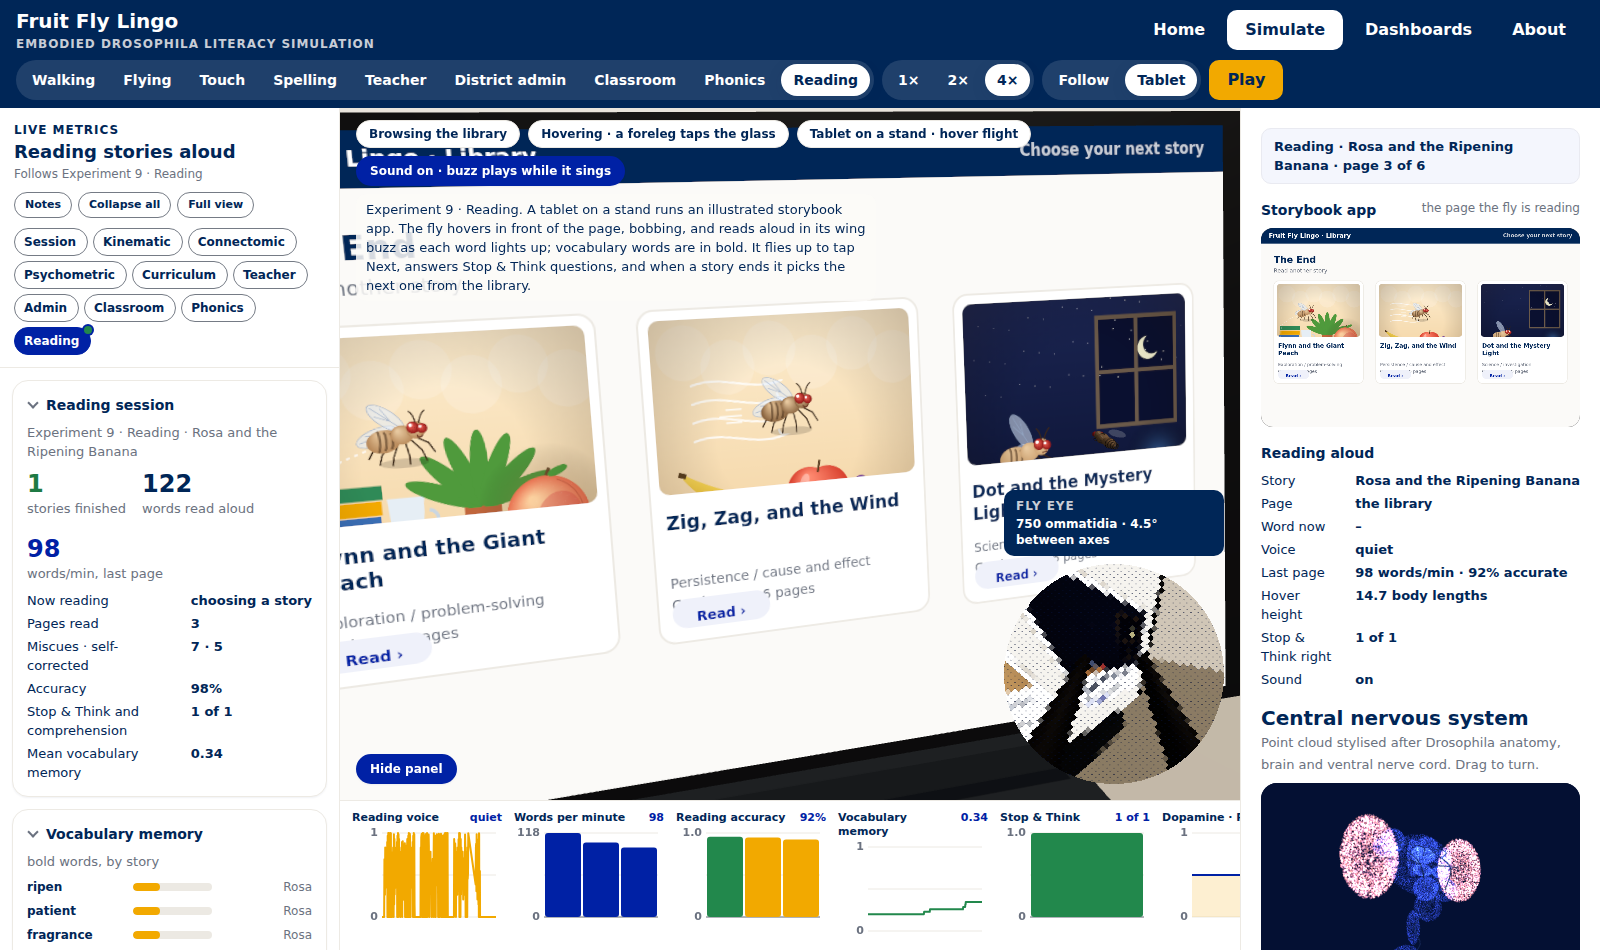
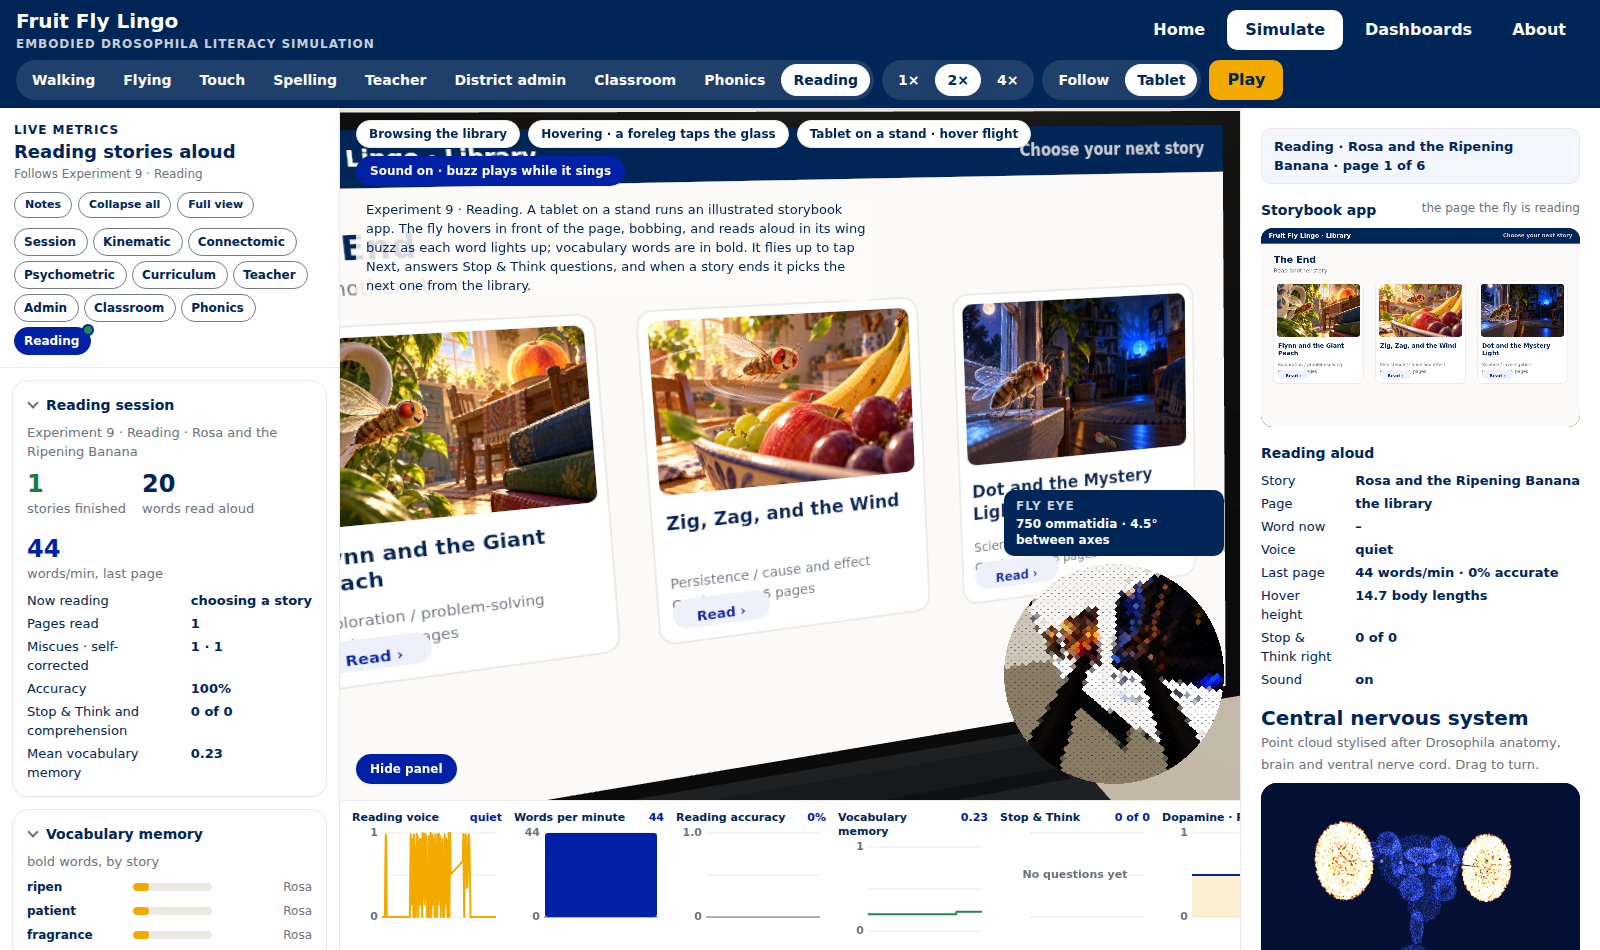
Reading: use the generated story illustrations
Maps the 24 uploaded images to their pages by content (several were
numbered out of order), adds web-sized JPEG copies named <story>-p<page>.jpg
(3.3 MB in total instead of about 50 MB) and lists them in the manifest.
The originals stay untouched under each story's title.

Page to uploaded image: Rosa 5,6,3,4,1,2; Flynn 5,6,4,2,3,1;
Zig 5,6,4,2,3,1; Dot 5,2,3,4,1,6.

The picture panel is now 4:3 like the images, so nothing is cropped away,
with the title and page number underneath; library cards use the covers.
The painted scenes remain as a fallback for a missing image.

diff --git a/index.html b/index.html
@@ -537,7 +537,7 @@ pre.mermaid svg{max-width:none;height:auto}
           <p class="sub">A miscue is a word read wrong; most are self-corrected. Unfamiliar vocabulary words are read more slowly and misread more often until their memory grows.</p></article>
         <article class="card span4"><header><h3>Vocabulary memory</h3><span class="sub">bold words, by story</span></header><div id="rdVocab" class="memory"></div><p class="sub">Each time the fly reads a bold word correctly its memory grows by Δw = η(R − V); a misread lowers it.</p></article>
         <article class="card span4"><header><h3>Fluency by page</h3><span class="sub">words per minute, coloured by accuracy</span></header><canvas class="chart tall" id="cRdWpm" aria-label="Words per minute for each page read"></canvas><div class="legend"><span><i style="background:#22884c"></i>95% or better</span><span><i style="background:#f2a900"></i>below 95%</span></div><p class="sub">Timed in simulation seconds, so the rate does not change with the speed buttons.</p></article>
-        <article class="card span6"><header><h3>The library</h3><span class="sub">four stories, six pages each</span></header><div style="overflow-x:auto"><table class="q" id="rdBooks"><thead><tr><th>Story</th><th>Theme</th><th>Grade</th><th>Words to know</th><th>Read</th></tr></thead><tbody></tbody></table></div><p class="sub">Illustrations are painted in the browser from each page's image prompt until generated images are added to docs/stories.</p></article>
+        <article class="card span6"><header><h3>The library</h3><span class="sub">four stories, six pages each</span></header><div style="overflow-x:auto"><table class="q" id="rdBooks"><thead><tr><th>Story</th><th>Theme</th><th>Grade</th><th>Words to know</th><th>Read</th></tr></thead><tbody></tbody></table></div><p class="sub">Illustrations are AI-generated from each page's image prompt; a page without an image is painted in the browser instead.</p></article>
         <article class="card span6"><header><h3>Reading log</h3><span class="sub">miscues, questions, stories</span></header><ul class="events" id="rdLog" style="max-height:260px"></ul></article>
       </section>
     </div>
@@ -866,7 +866,7 @@ pre.mermaid svg{max-width:none;height:auto}
         <figure><img loading="lazy" src="docs/screenshots/exp9-library.png" alt="Experiment 9 library: The End and three story cards to choose the next story"><figcaption><strong>9 · The library.</strong> After the comprehension question, three more stories appear; the fly flies up and taps one to start it.</figcaption></figure>
         <figure><img loading="lazy" src="docs/screenshots/dashboards-9.png" alt="Dashboard 9: reading session counters, vocabulary memory, fluency by page"><figcaption><strong>Dashboard 9 · Reading stories aloud.</strong> Stories finished, words read, words per minute and accuracy per page, miscues and self-corrections, questions answered, and a vocabulary memory per bold word.</figcaption></figure>
       </div>
-      <p>The reading app follows the pattern of illustrated readers such as LitLab: a picture and a short passage on each spread, a strip of words to know, and a comprehension check about every three pages. The four books are written for grades 3 to 5 and set in a fruit fly's world, where a peach is a mountain and a kitchen fan is a storm: <em>Rosa and the Ripening Banana</em> (patience and change over time), <em>Flynn and the Giant Peach</em> (exploration), <em>Zig, Zag, and the Wind</em> (cause and effect) and <em>Dot and the Mystery Light</em> (investigation and evidence). Every page carries an image prompt for a generated illustration. There is no image model in the browser, so until generated images are added, each page is painted from a scene description with one consistent fly character. The prompts, and how to add images, are in <a href="docs/stories/prompts.md" target="_blank" rel="noopener">docs/stories/prompts.md</a>.</p>
+      <p>The reading app follows the pattern of illustrated readers such as LitLab: a picture and a short passage on each spread, a strip of words to know, and a comprehension check about every three pages. The four books are written for grades 3 to 5 and set in a fruit fly's world, where a peach is a mountain and a kitchen fan is a storm: <em>Rosa and the Ripening Banana</em> (patience and change over time), <em>Flynn and the Giant Peach</em> (exploration), <em>Zig, Zag, and the Wind</em> (cause and effect) and <em>Dot and the Mystery Light</em> (investigation and evidence). Every page is illustrated with an AI-generated image made from that page's prompt, with one consistent fly character; the app loads web-sized copies from docs/stories. If an image is missing, the page is painted in the browser from a scene description instead. The prompts, and how to add or replace images, are in <a href="docs/stories/prompts.md" target="_blank" rel="noopener">docs/stories/prompts.md</a>.</p>
       <p>The fly reads word by word at about 110 words a minute, slowing on the bold vocabulary words. Each word is voiced by the same wing buzz as the phonics lesson: a hum shaped by the word's vowels, a pulse at a stop consonant, rising at a question and falling at the end of a sentence. Unfamiliar vocabulary is misread more often, and most misreadings are self-corrected. Stop &amp; Think after page 3 and a comprehension question after page 6 are answered right with a probability that rises with the story's vocabulary memory. These books are structured like decodable readers but are not aligned to a phonics scope and sequence; mapping them to a grade 3 to 5 morphology progression is the next step.</p>
 
       <h3 class="sec">From this app to the full EDLS</h3>
@@ -2953,7 +2953,7 @@ function renderPhonicsTrial() {
 // =====================================================================
 // ---------- Experiment 9 stories: illustrated six-page books with vocabulary and comprehension checks ----------
 // Each page has an image prompt for a generated illustration. Until real images are dropped into docs/stories
-// (listed in docs/stories/manifest.json as <story>-p<page>.png), each page is painted from a scene list below.
+// (listed in docs/stories/manifest.json as <story>-p<page>.jpg or .png), each page is painted from a scene list below.
 const STORY_STYLE = "Consistent character design: scientifically recognizable Drosophila fruit fly, large red compound eyes, tan segmented body, transparent wings, six thin legs, friendly expressive face without human clothing, miniature insect-scale world, colorful polished 3D children's educational illustration, ages 8-11, no text or letters in image.";
 const STORIES = [
   { id: 'rosa', title: 'Rosa and the Ripening Banana', theme: 'Patience / change over time', grade: 'Grades 3–4', vocab: ['ripen', 'patient', 'fragrance', 'notice', 'change'],
@@ -3057,11 +3057,13 @@ const FLY_TINT = { base: '#b8895a', light: '#d2a878', dark: '#8a643f', rosa: '#c
 function artFor(si, pi) {
   const key = `${si}:${pi}`; if (pageArt.has(key)) return pageArt.get(key);
   const cv = document.createElement('canvas'); cv.width = PW; cv.height = PHH; const g = cv.getContext('2d');
-  const img = storyImgs.get(`${STORIES[si].id}-p${pi + 1}.png`);
-  if (img) { const s = Math.max(PW / img.width, PHH / img.height); g.drawImage(img, (PW - img.width * s) / 2, (PHH - img.height * s) / 2, img.width * s, img.height * s); }
+  const img = storyImgs.get(`${STORIES[si].id}-p${pi + 1}.jpg`) || storyImgs.get(`${STORIES[si].id}-p${pi + 1}.png`);
+  if (img) { cv.width = img.width; cv.height = img.height; g.drawImage(img, 0, 0); } // generated images keep their own 4:3 shape
   else paintScene(g, STORIES[si].pages[pi].scene);
   pageArt.set(key, cv); return cv;
 }
+// draw src to fill the rectangle, cropping the overflow evenly
+function drawCover(g, src, x, y, w, h) { const s = Math.max(w / src.width, h / src.height), sw = w / s, sh = h / s; g.drawImage(src, (src.width - sw) / 2, (src.height - sh) / 2, sw, sh, x, y, w, h); }
 function paintScene(g, sc) {
   const bgs = { kitchen: ['#fdeccd', '#f3d3a2', '#c98f5a', '#b27a48'], morning: ['#fff6df', '#fbe3b4', '#d49c66', '#bf8654'], sunset: ['#ffc98a', '#f48d6f', '#b9744a', '#9a5d3a'], night: ['#1b2551', '#0c1333', '#3b3552', '#2b2640'] }[sc.bg];
   let gr = g.createLinearGradient(0, 0, 0, PHH); gr.addColorStop(0, bgs[0]); gr.addColorStop(1, bgs[1]); g.fillStyle = gr; g.fillRect(0, 0, PW, PHH);
@@ -3264,7 +3266,9 @@ function drawBook() {
   g.textAlign = 'right'; g.fillStyle = C.onDarkMuted; g.font = `700 17px ${DISPLAY}`; g.fillText(R.mode === 'library' ? 'Choose your next story' : `${S.title} · page ${R.pi + 1} of 6`, 1000, 26);
   if (R.mode === 'library') return drawLibrary(g), (bookTex.needsUpdate = true);
   // left: the picture
-  g.save(); g.beginPath(); g.roundRect(24, 66, 496, 456, 16); g.clip(); g.drawImage(artFor(R.si, R.pi), 24, 66); g.restore();
+  // left: the picture, 4:3 like the generated illustrations, with the title underneath
+  g.save(); g.beginPath(); g.roundRect(24, 66, 496, 372, 16); g.clip(); drawCover(g, artFor(R.si, R.pi), 24, 66, 496, 372); g.restore();
+  g.textAlign = 'left'; g.textBaseline = 'alphabetic'; g.fillStyle = C.darkBlue; g.font = `700 21px ${DISPLAY}`; g.fillText(S.title, 28, 472); g.fillStyle = C.inkMuted; g.font = `400 16px ${BODY}`; g.fillText(`Page ${R.pi + 1} of 6 · ${S.grade}`, 28, 498);
   if (R.mode === 'check' || R.mode === 'feedback') { drawCheck(g); bookTex.needsUpdate = true; return; }
   // right: the text, with the word being read highlighted and vocabulary in bold blue
   g.textAlign = 'left'; g.textBaseline = 'alphabetic'; g.fillStyle = C.inkMuted; g.font = `700 13px ${DISPLAY}`; g.fillText(S.theme.toUpperCase() + ' · ' + S.grade.toUpperCase(), 548, 88);
@@ -3296,7 +3300,7 @@ function drawLibrary(g) {
   g.textAlign = 'left'; g.fillStyle = C.darkBlue; g.font = `700 30px ${DISPLAY}`; g.fillText('The End', 40, 104); g.fillStyle = C.inkMuted; g.font = `400 18px ${BODY}`; g.fillText('Read another story', 40, 138);
   libraryOrder().forEach((si, i) => { const [x, y, w, h] = cardRect(i), S = STORIES[si], sel = reading.chosenCard === i;
     g.fillStyle = C.card; g.strokeStyle = sel ? C.coreBlue : C.border; g.lineWidth = sel ? 4 : 2; g.beginPath(); g.roundRect(x, y, w, h, 16); g.fill(); g.stroke();
-    g.save(); g.beginPath(); g.roundRect(x + 10, y + 10, w - 20, 170, 10); g.clip(); g.drawImage(artFor(si, 0), x + 10, y + 10, w - 20, (w - 20) * 456 / 496); g.restore();
+    g.save(); g.beginPath(); g.roundRect(x + 10, y + 10, w - 20, 170, 10); g.clip(); drawCover(g, artFor(si, 0), x + 10, y + 10, w - 20, 170); g.restore();
     g.fillStyle = C.darkBlue; g.font = `700 19px ${DISPLAY}`; wrapLines(g, S.title, w - 28).forEach((l, k) => g.fillText(l, x + 14, y + 210 + k * 24));
     g.fillStyle = C.inkMuted; g.font = `400 14px ${BODY}`; g.fillText(S.theme, x + 14, y + 270); g.fillText(`${S.grade} · 6 pages`, x + 14, y + 292);
     g.fillStyle = sel ? C.coreBlue : C.blueTint; g.beginPath(); g.roundRect(x + 14, y + h - 44, 100, 30, 15); g.fill(); g.fillStyle = sel ? '#fff' : C.coreBlue; g.font = `700 14px ${DISPLAY}`; g.fillText('Read ›', x + 38, y + h - 24); });

diff --git a/CLAUDE.md b/CLAUDE.md
@@ -11,7 +11,7 @@
 Fruit Fly Lingo is the interaction layer of the Embodied Drosophila Literacy Simulation (EDLS). It is a single static page (`index.html`, three.js loaded from jsdelivr, no build step) deployed on Vercel from this repository, `jayrosen-design/fly-lingo`, branch `main`.
 
 - A procedural fruit fly with six IK legs, wings and a head-mounted compound-eye camera learns English morphology (prefix + root + suffix) on the screens people learn on.
-- Nine experiments share one brain model and curriculum: 1 Walking (phone on a table), 2 Flying (climb to read, dive to answer, paths and landing heatmap), 3 Touch (fly-sized phone, swipe and tap), 4 Spelling (real-size laptop, fly key to key), 5 Teacher (fly-sized laptop, trackpad only, grades Flies A to D from a gradebook fed by the other experiments' real trials), 6 District admin (3 × 3 webcam grid of student simulations, vision overlay boxing flies, forelegs and gaze, FlyAI rule-based flags, seeded cheating scored for precision), 7 Classroom (24 student flies, 12 female and 12 male, at six round tables with a fly-sized tablet each in mating season: courtship with one-wing song, female rejection by ignoring, wing flick and kick or decamping, courtship conditioning lowering male drive, rival wing threats and lunges, grooming, glancing at neighbours, co-action; every fly must finish twelve items; click a fly to follow it; no fly-eye inset here, instead an optional vision overlay boxes every fly, its forelegs and its gaze with eye-contact badges and trails), 8 Phonics (phonics app on the phone; the fly stands on the mic facing the word, holds it down with a foreleg and sings each sound with one extended wing: pulse song for stops, formant-shaped hum for vowels, fluttered hiss for fricatives; a live Web Audio fly buzz that plays only while it sings, on by default when Phonics opens; letter-sound memory and a confusion matrix), 9 Reading (tablet on a stand with a LitLab-style illustrated storybook app; four six-page stories in STORIES with vocabulary, Stop & Think and comprehension checks; the fly hovers, bobs, reads aloud in the same wing buzz with the word highlighted, flies up to tap Next, answers, and picks the next story from a library grid; pages are painted from scene lists until generated images are listed in docs/stories/manifest.json; prompts in docs/stories/prompts.md).
+- Nine experiments share one brain model and curriculum: 1 Walking (phone on a table), 2 Flying (climb to read, dive to answer, paths and landing heatmap), 3 Touch (fly-sized phone, swipe and tap), 4 Spelling (real-size laptop, fly key to key), 5 Teacher (fly-sized laptop, trackpad only, grades Flies A to D from a gradebook fed by the other experiments' real trials), 6 District admin (3 × 3 webcam grid of student simulations, vision overlay boxing flies, forelegs and gaze, FlyAI rule-based flags, seeded cheating scored for precision), 7 Classroom (24 student flies, 12 female and 12 male, at six round tables with a fly-sized tablet each in mating season: courtship with one-wing song, female rejection by ignoring, wing flick and kick or decamping, courtship conditioning lowering male drive, rival wing threats and lunges, grooming, glancing at neighbours, co-action; every fly must finish twelve items; click a fly to follow it; no fly-eye inset here, instead an optional vision overlay boxes every fly, its forelegs and its gaze with eye-contact badges and trails), 8 Phonics (phonics app on the phone; the fly stands on the mic facing the word, holds it down with a foreleg and sings each sound with one extended wing: pulse song for stops, formant-shaped hum for vowels, fluttered hiss for fricatives; a live Web Audio fly buzz that plays only while it sings, on by default when Phonics opens; letter-sound memory and a confusion matrix), 9 Reading (tablet on a stand with a LitLab-style illustrated storybook app; four six-page stories in STORIES with vocabulary, Stop & Think and comprehension checks; the fly hovers, bobs, reads aloud in the same wing buzz with the word highlighted, flies up to tap Next, answers, and picks the next story from a library grid; pages use AI-generated images (originals under each story's title in docs/stories, web copies <story>-p<page>.jpg listed in manifest.json), falling back to a painted scene if one is missing; prompts in docs/stories/prompts.md).
 - The experiment buttons, side-panel tabs and dashboard jump links show names only, no numbers.
 - In the Simulate view the left dashboard panel, the right scenario panel and the bottom six-chart strip all switch per experiment (DOCK_FOR, data-rp sections and scenarioCard, STRIPS in index.html); teacher and admin show their laptop screen and work queue instead of the brain.
 - A stylised 55,000-point nervous system lights up by region; the memory rule is Δw = η(R − V), η = 0.22; nine dashboards (kinematic, connectomic, psychometric with G-DINA, Half-Life Regression and a Rasch Wright map, curriculum with a toy mLSTM and Decision Transformer divergence, teacher navigation with Fitts' law, district proctoring, classroom social dynamics, phonics and wing song, reading stories aloud) run on live telemetry and also dock beside the arena.

diff --git a/README.md b/README.md
@@ -154,7 +154,7 @@ The library has four six-page stories for grades 3 to 5, set in a fruit fly's wo
 | Zig, Zag, and the Wind | Persistence, cause and effect | 3–4 | direction, powerful, predict, protect, return |
 | Dot and the Mystery Light | Science, investigation | 4–5 | observe, investigate, evidence, experiment, conclusion |
 
-Every page has an image prompt for a generated illustration, collected in [docs/stories/prompts.md](docs/stories/prompts.md). There is no image model in the browser, so each page is painted from a scene description with one consistent fly character until real images are added. To use generated images, save them as `docs/stories/<story>-p<page>.png` and list them in `docs/stories/manifest.json`; pages without an image keep their painting.
+Every page is illustrated with an AI-generated image made from its prompt; the prompts are collected in [docs/stories/prompts.md](docs/stories/prompts.md). The full-size originals are in `docs/stories` under each story's title, and the app loads web-sized copies named `<story>-p<page>.jpg` (about 140 KB each) that are listed in `docs/stories/manifest.json`. To replace an image, overwrite its copy, or add a new file and list it in the manifest. A page without an image falls back to a painting made in the browser from a scene description.
 
 These books are structured like decodable readers but are not aligned to a phonics scope and sequence. Mapping them to a grade 3 to 5 morphology progression is the next step.
 

diff --git a/docs/stories/prompts.md b/docs/stories/prompts.md
@@ -1,8 +1,8 @@
 # Story illustration prompts
 
-Image prompts for the four storybooks in Experiment 9, Reading, generated from the story data in index.html. Until real images are added, the app paints each page in the browser from a scene description.
+Image prompts for the four storybooks in Experiment 9, Reading, generated from the story data in index.html. The generated originals are in this folder under each story's title; the app loads the web-sized copies listed in `manifest.json`. A page without an image is painted in the browser from a scene description.
 
-To use generated images, save each one as `<story>-p<page>.png` in this folder (for example `rosa-p1.png`) and list the file names in `manifest.json`, for example ["rosa-p1.png", "rosa-p2.png"]. Landscape images work best; the app crops them to fill the picture panel. Any page without an image keeps its painted illustration.
+To add or replace an image, save it as `<story>-p<page>.jpg` or `.png` in this folder (for example `rosa-p1.jpg`) and list the file name in `manifest.json`. A width of about 1000 px is plenty. Landscape images work best; the app crops them to fill the picture panel. Any page without an image keeps its painted illustration.
 
 Add this to every prompt for a consistent character:
 
